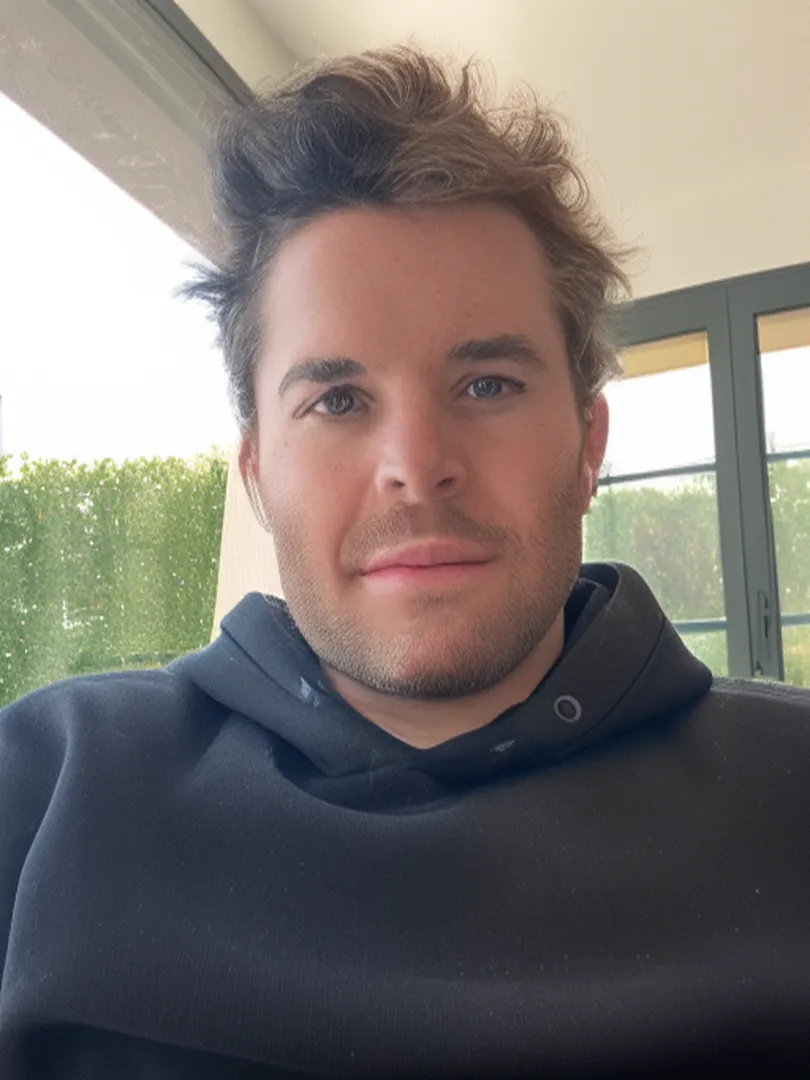
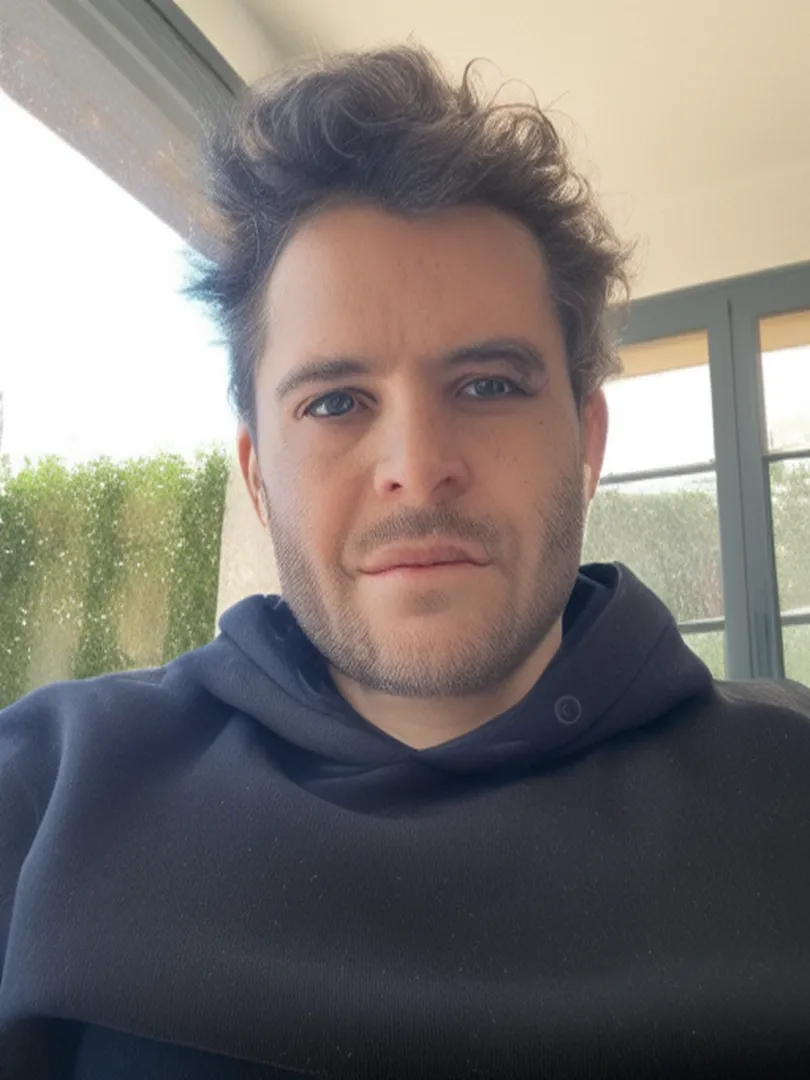
featured image

diff --git a/enhance_image.py b/enhance_image.py
@@ -32,7 +32,7 @@ pipeline.unet = torch.compile(pipeline.unet, mode="reduce-overhead", fullgraph=T
 image_path = "./original_image.webp"
 init_image = Image.open(image_path).convert("RGB")
 
-prompt = "With blonde hair, and smiling."
+prompt = "With blonde hair, and smiling. Keep the same face"
 negative_prompt = "ugly, deformed, disfigured, poor details, bad anatomy"
 
 # pass prompt and image to pipeline
